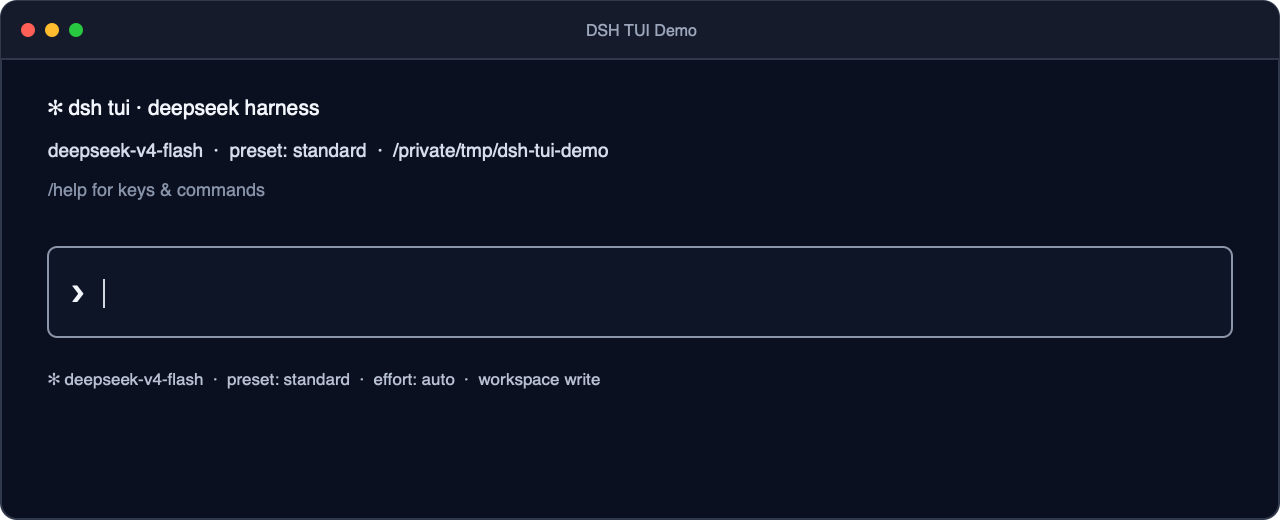
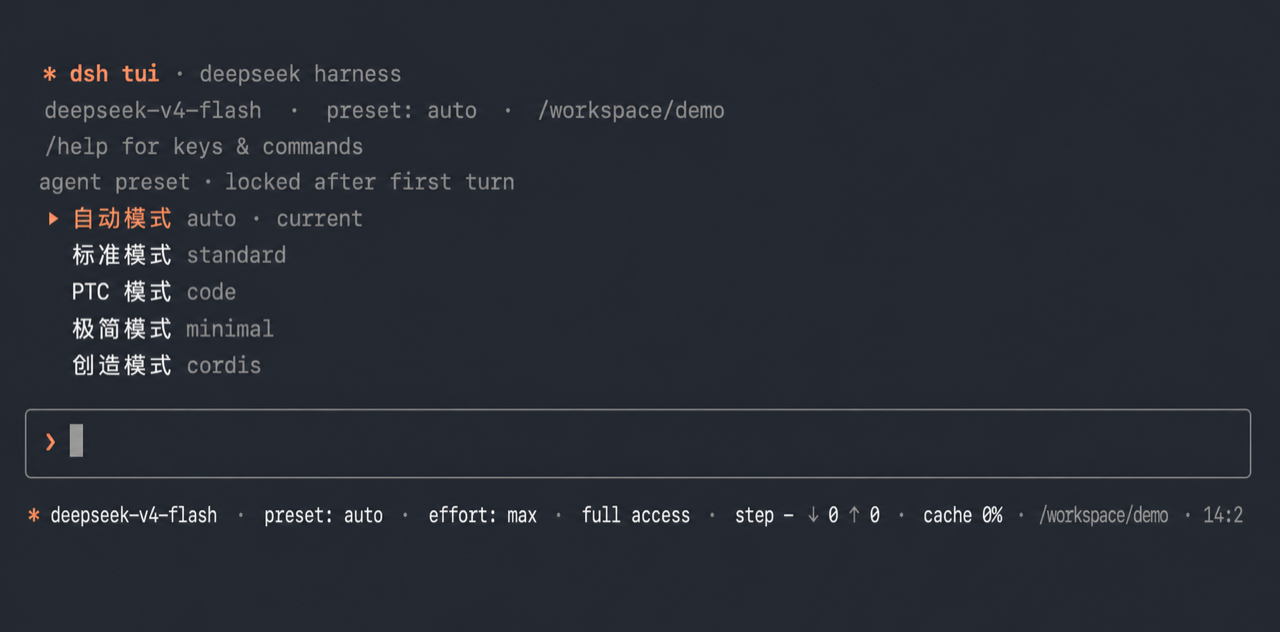
docs: use anonymized real TUI screenshot

diff --git a/README.md b/README.md
@@ -13,10 +13,10 @@ project published as [`ccch1mneyyy/dsh-TUI`](https://github.com/ccch1mneyyy/dsh-
 
 ![DSH TUI startup screen](docs/assets/tui-startup.png)
 
-The image shows a real local `dsh --profile tui` startup rendered from an
-isolated profile and the disposable `/private/tmp/dsh-tui-demo` workspace. It
-contains no user name, home-directory path, session ID, or personal project
-information.
+The image is cropped from a real local `dsh --profile tui` startup. Shell
+history and window chrome were removed, and the workspace path was anonymized
+as `/workspace/demo`; it contains no user name, home-directory path, session
+ID, or personal project information.
 
 ## Features
 

diff --git a/README.zh-CN.md b/README.zh-CN.md
@@ -13,9 +13,9 @@
 
 ![DSH TUI 本地启动界面](docs/assets/tui-startup.png)
 
-图片来自真实的本地 `dsh --profile tui` 启动首屏，并使用隔离 profile 与一次性的
-`/private/tmp/dsh-tui-demo` 工作目录。截图不包含用户名、主目录路径、会话 ID 或
-个人项目信息。
+图片裁剪自真实的本地 `dsh --profile tui` 启动首屏；已移除终端窗口栏和 shell
+历史，并把工作目录匿名化为 `/workspace/demo`。截图不包含用户名、主目录路径、
+会话 ID 或个人项目信息。
 
 ## 功能
 
